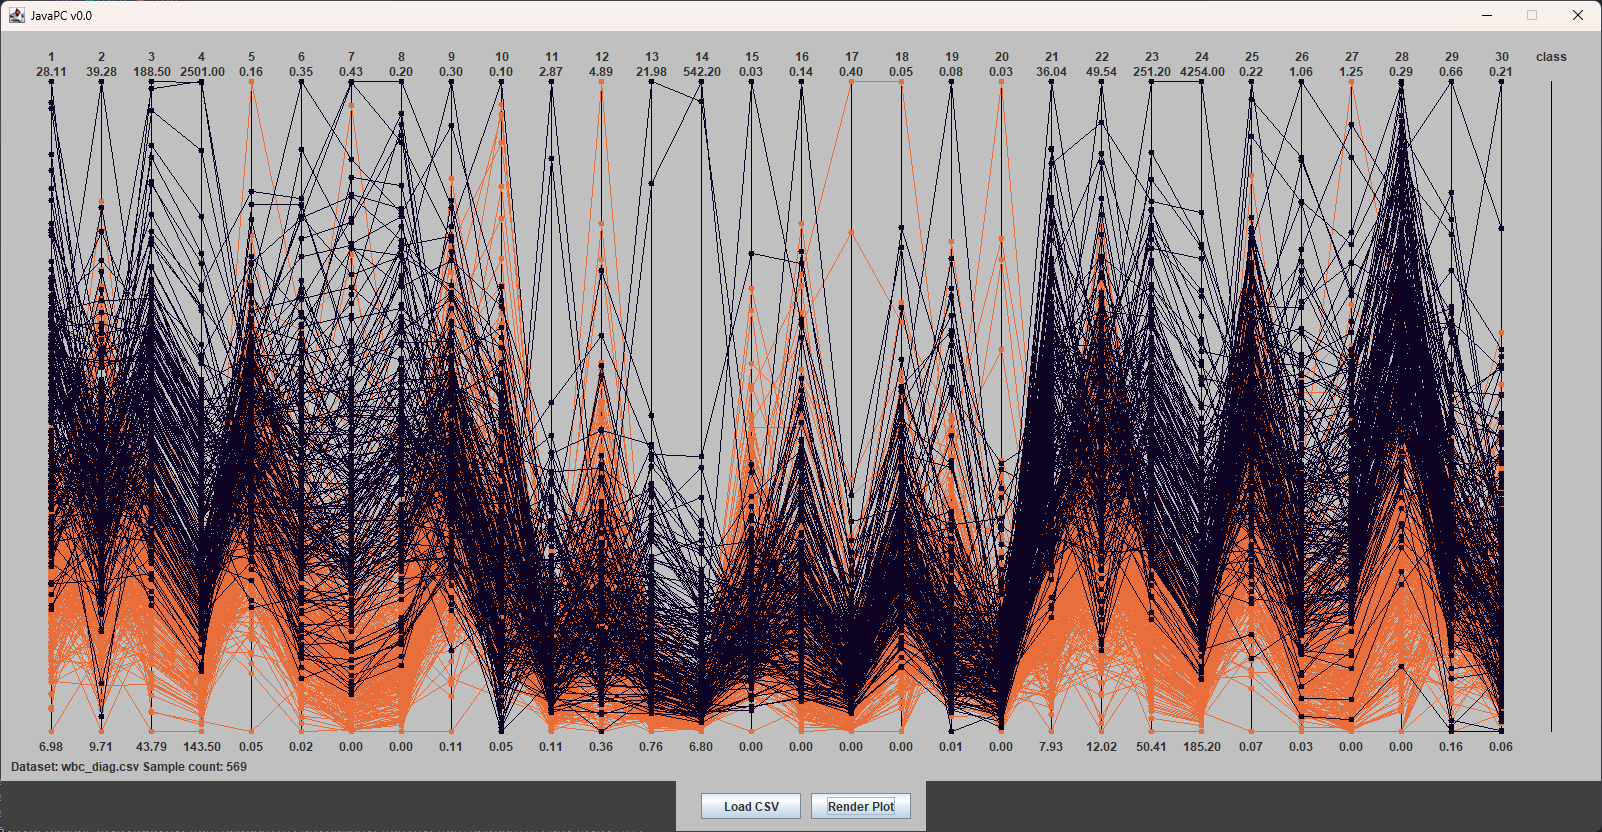
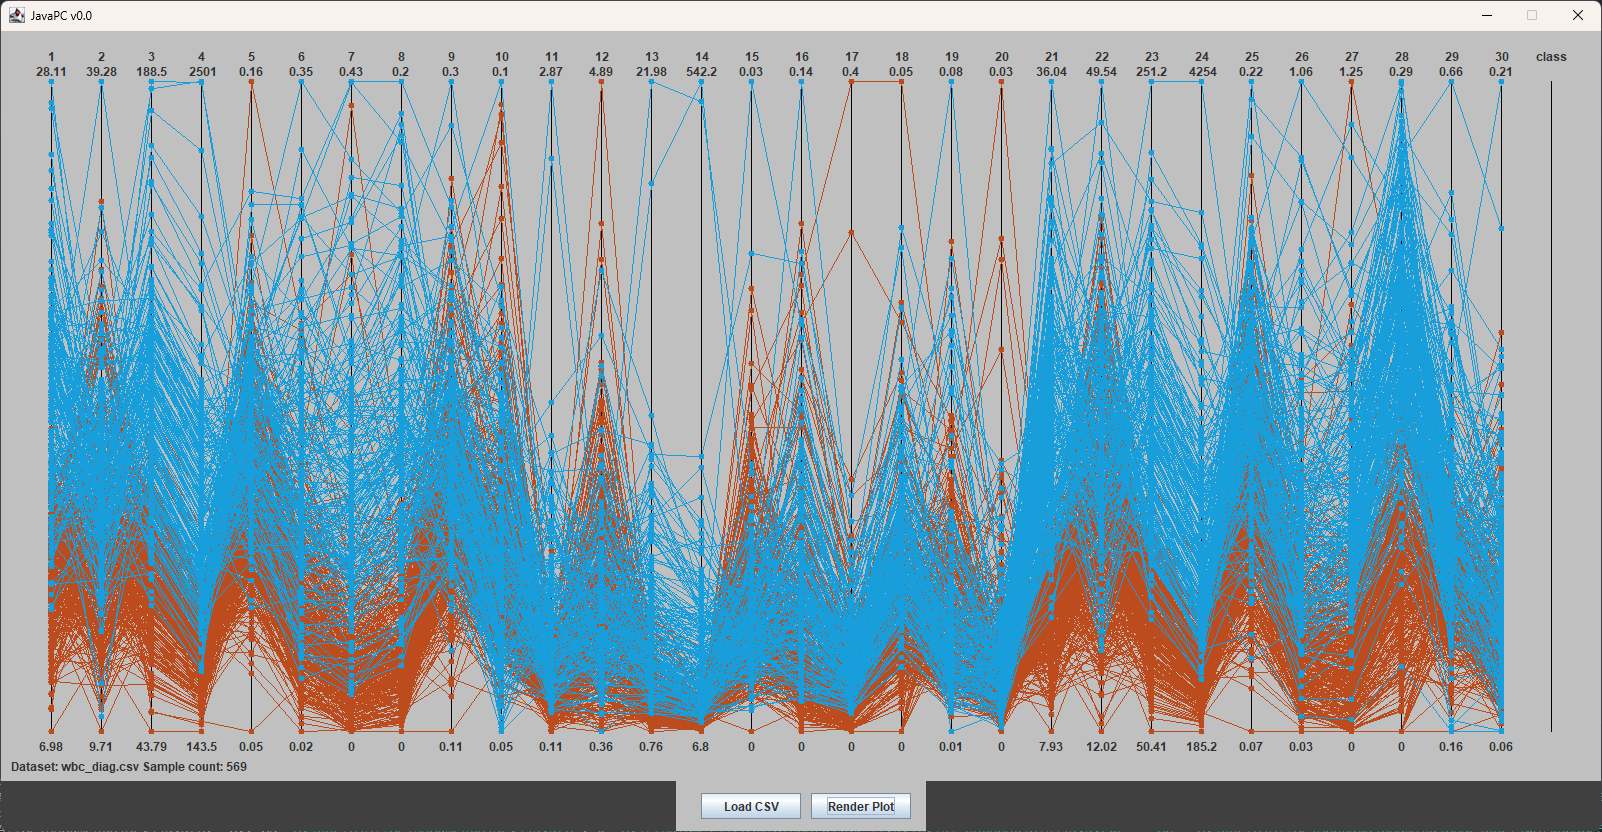
Remove trailing zeros on labels

diff --git a/javaPC/Plot.java b/javaPC/Plot.java
@@ -129,7 +129,7 @@ public class Plot extends JPanel {
             add(label);
 
             if (i < axisCount) {
-                DecimalFormat formatter = new DecimalFormat("#0.00");
+                DecimalFormat formatter = new DecimalFormat("0.##");
                 String maxName = formatter.format(maxes[i-1]);
                 
                 JLabel maxLabel = new JLabel(maxName);
@@ -148,6 +148,9 @@ public class Plot extends JPanel {
                 add(maxLabel);
 
                 String minName = formatter.format(mins[i-1]);
+                if (minName.equals("0.00")) {
+                    minName = "0";
+                }
                 JLabel minLabel = new JLabel(minName);
                 // Set the position of the label
                 int minXPos = lineSpacing * i;

diff --git a/README.md b/README.md
@@ -1,7 +1,7 @@
 # JavaPC
 
-This program is for viewing a multidimensional (n-D) dataset in a parallel coordinates (PC) plot.  
-The implementation language is in Java and without any external dependencies.  
+Parallel Coordinates data visualization viewer for CSV stored multidimensional data, written in Java Swing.  
+The implementation language is in Java using Java Swing for GUI, without any external dependencies.  
 
 Parsed CSV files must have class/id in the lass column for now.  
 
